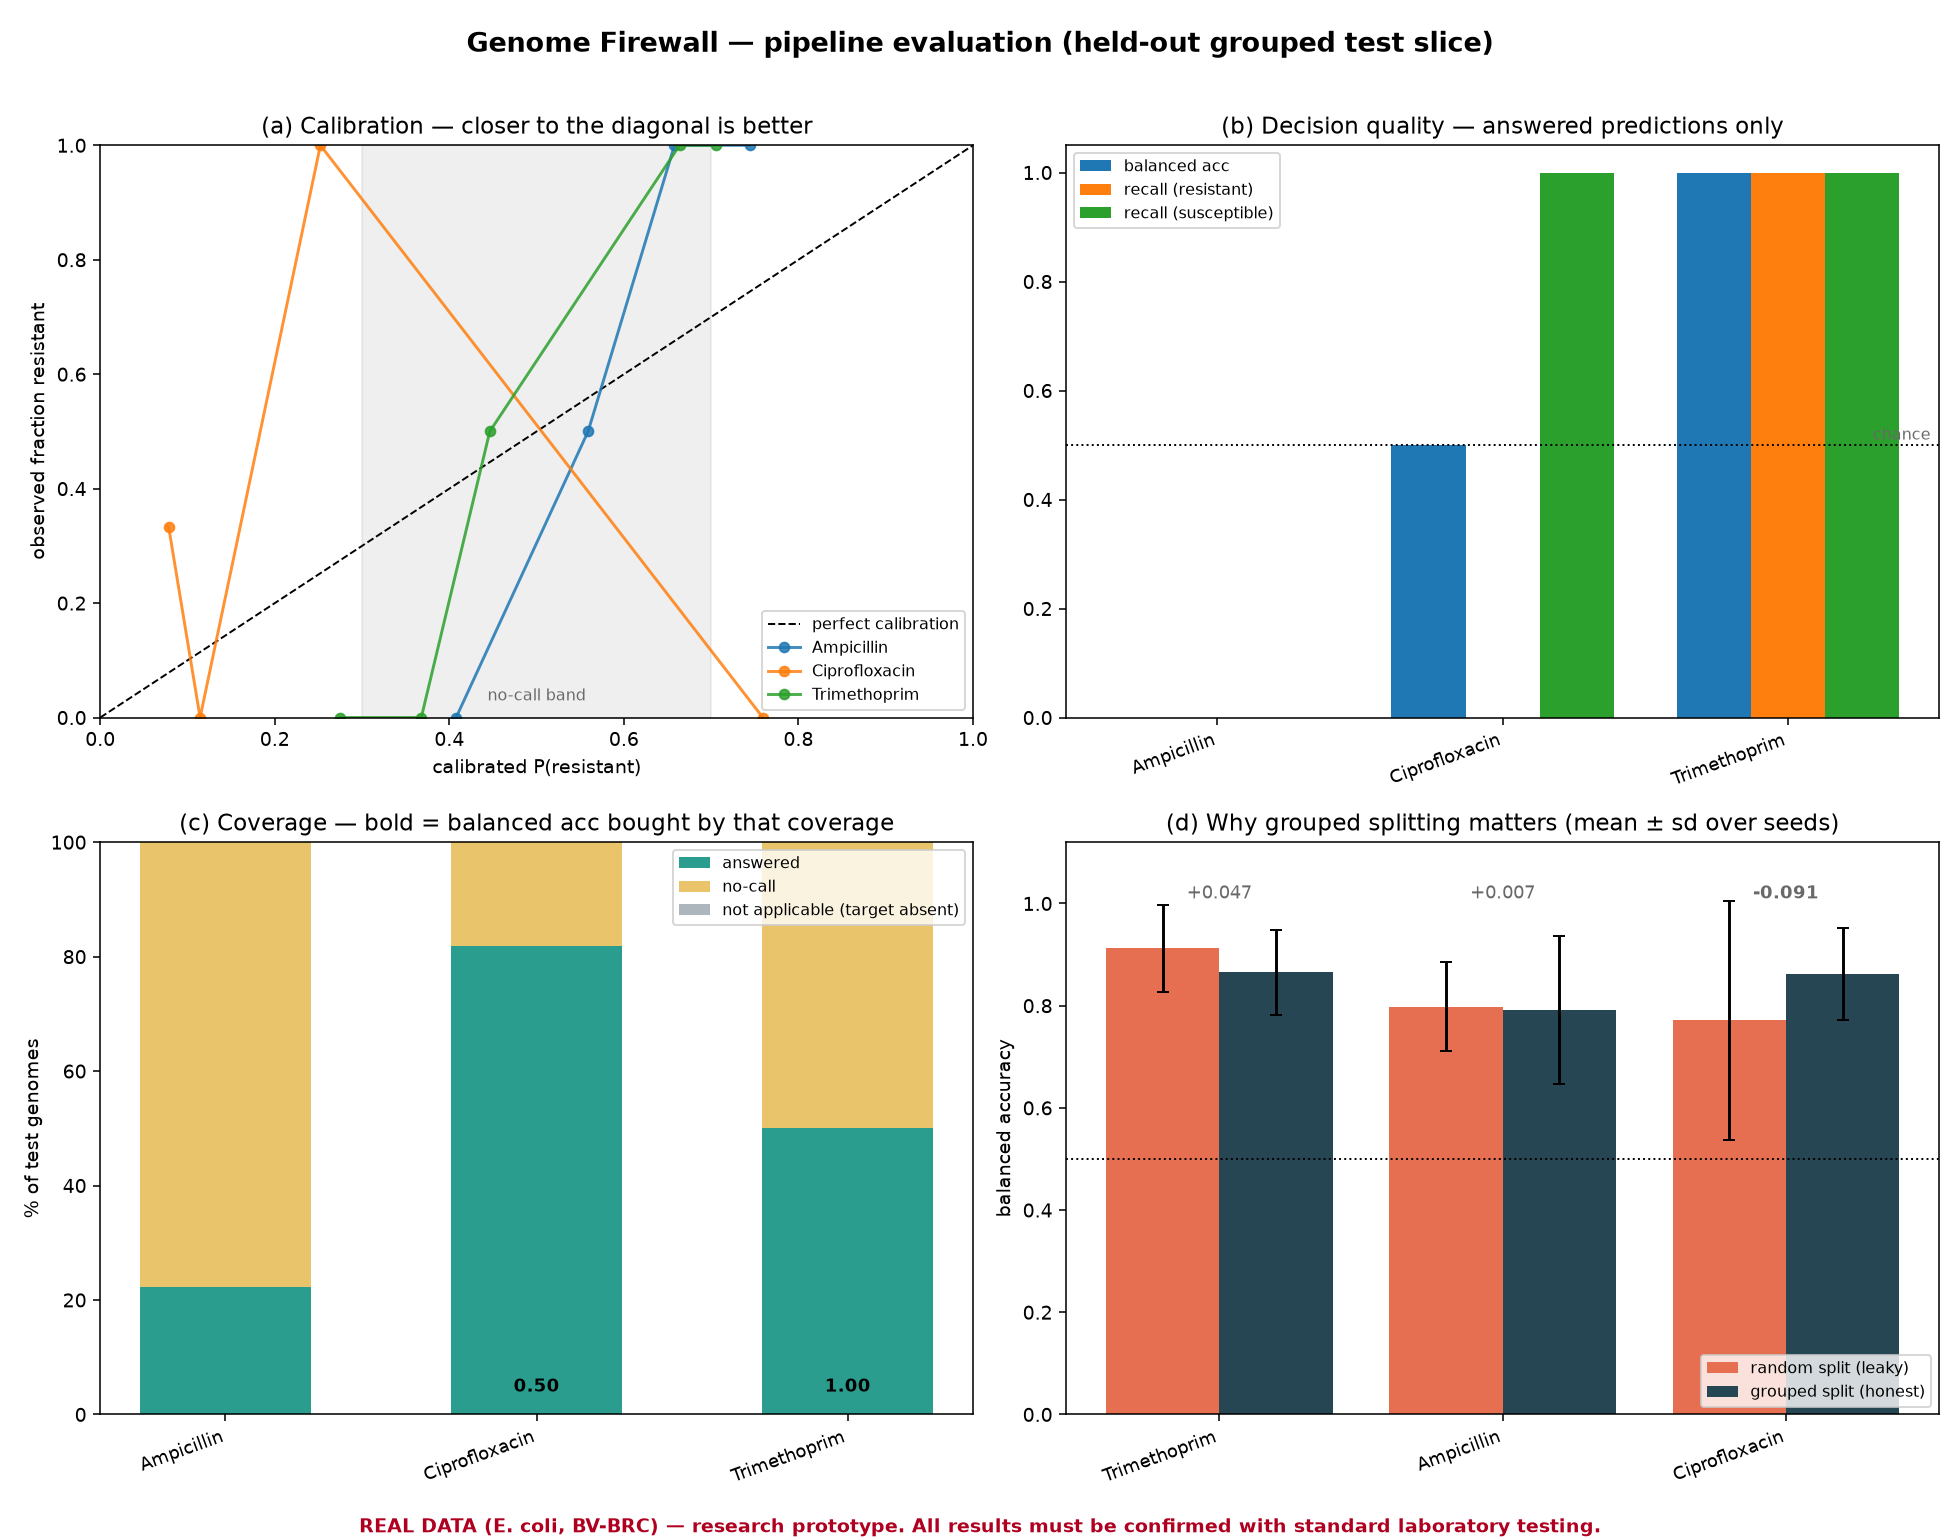
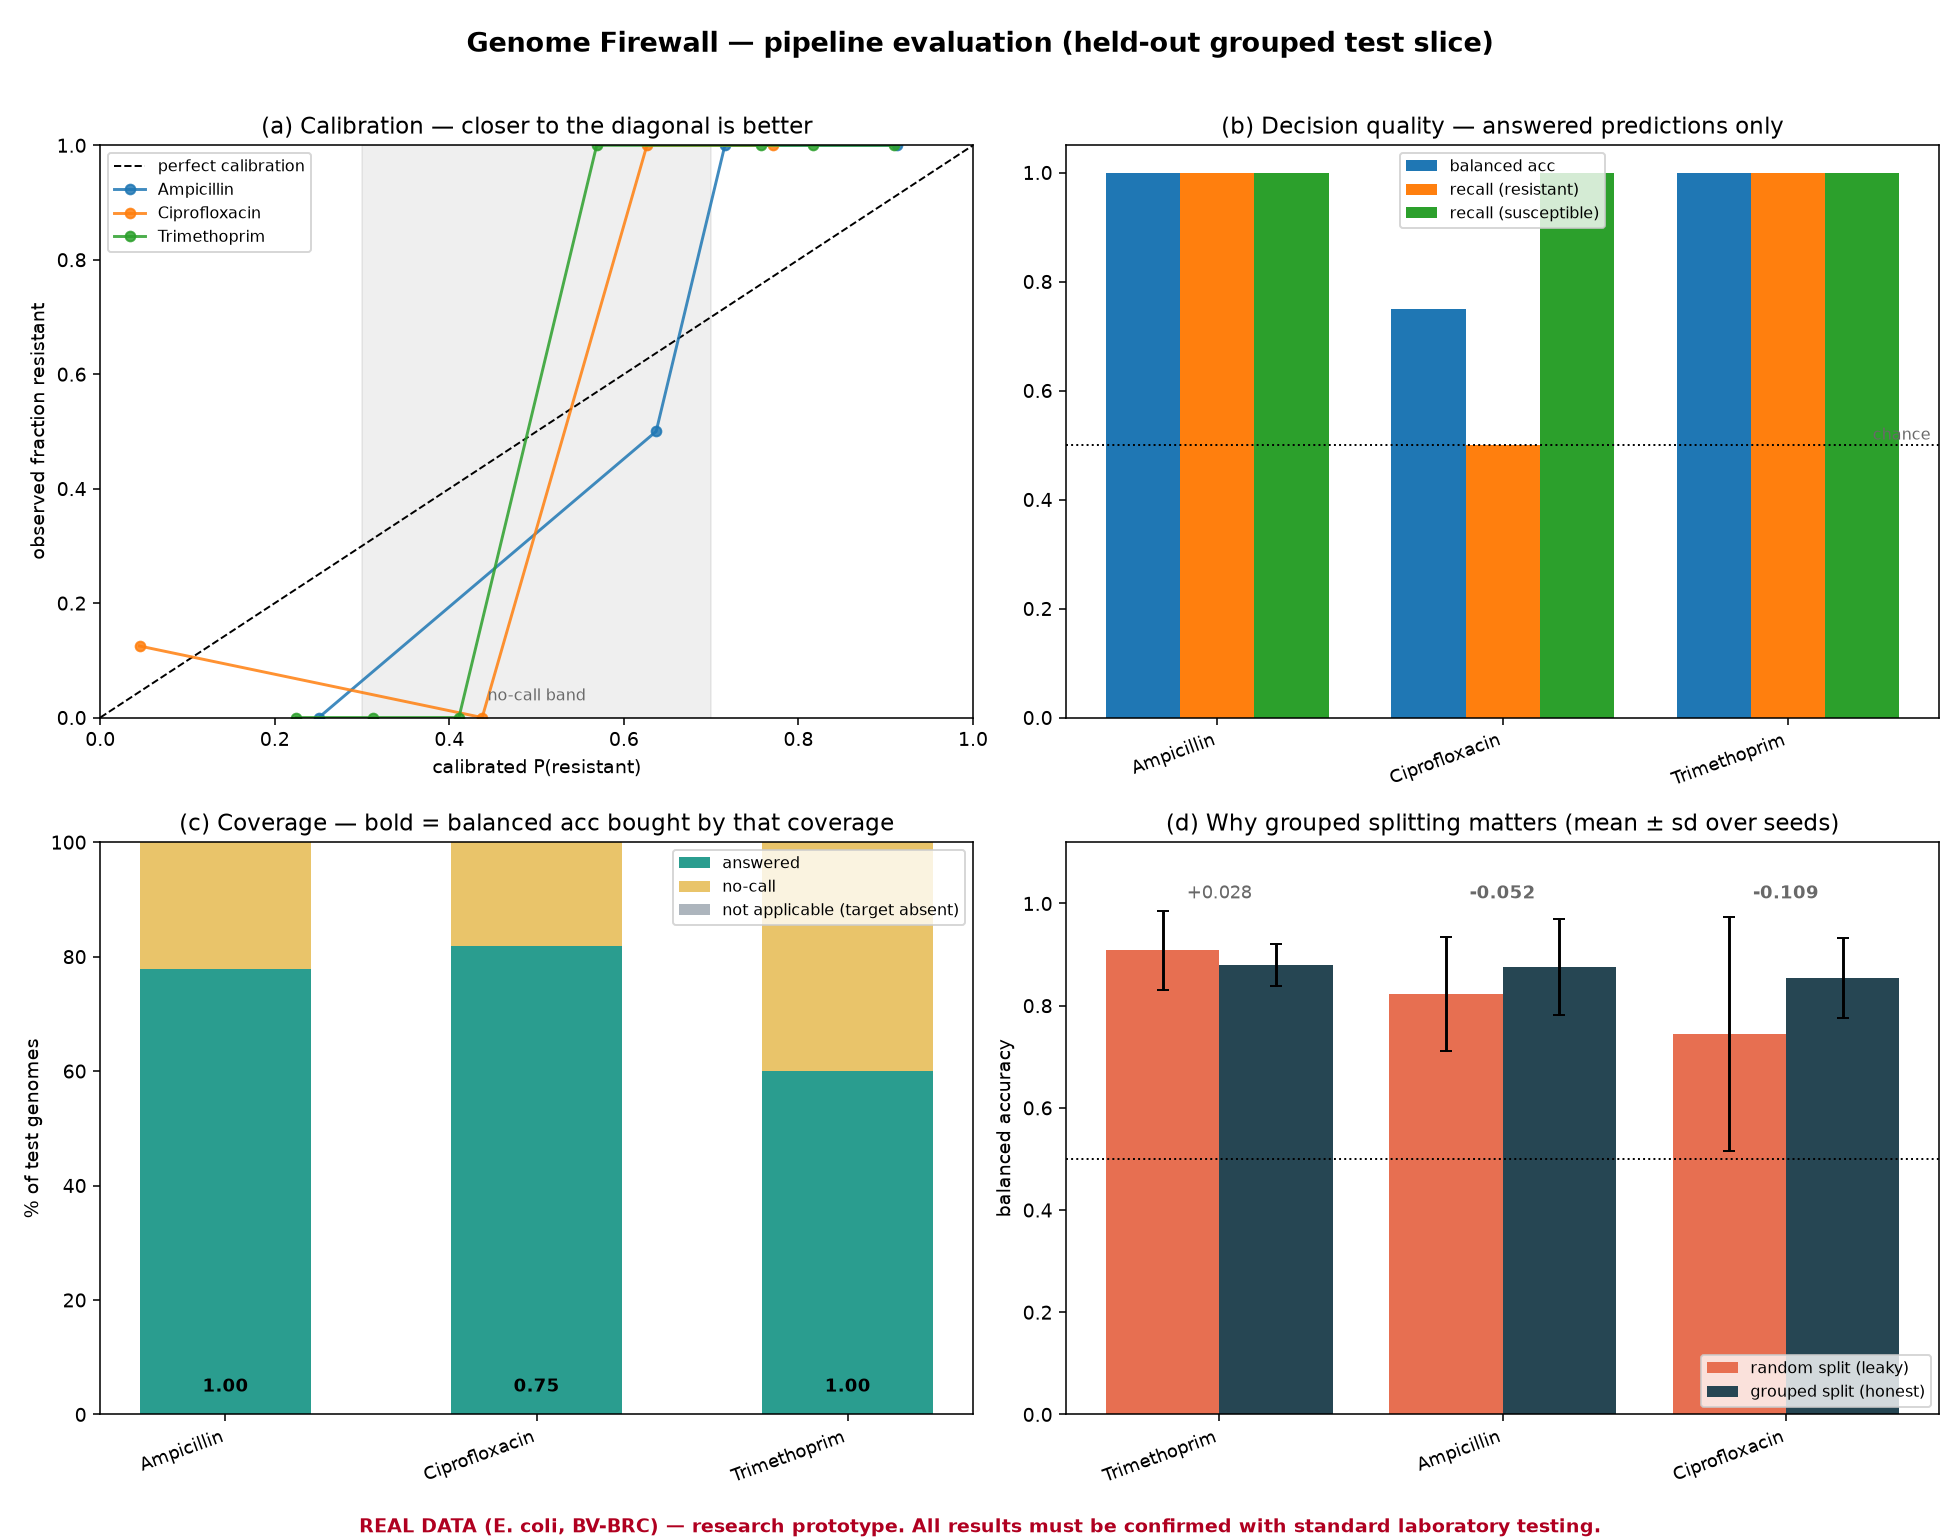
Add curated resistance genese and other

diff --git a/src/predictor.py b/src/predictor.py
@@ -157,6 +157,9 @@ class DrugModel:
     #: `feature_names` then holds FAMILY names, and any raw genome row must be
     #: aggregated through this mapping before it can be scored.
     family_map: dict[str, str] | None = None
+    #: Curated genes summed into the CURATED_COUNT column, when the model was
+    #: fitted with it. Needed to rebuild that column for a single genome.
+    counted_genes: list[str] = field(default_factory=list)
 
     def probability_resistant(self, row: pd.Series) -> float:
         """P(resistant) for one genome. Uncalibrated."""
@@ -165,7 +168,14 @@ class DrugModel:
                 dtype=float
             )
         else:
-            x = row.reindex(self.feature_names).fillna(0).to_numpy(dtype=float)
+            values = row.reindex(self.feature_names).fillna(0)
+            if self.counted_genes:
+                # Rebuild the summary column from this genome's own alleles; it is
+                # not present on a raw feature row.
+                values[CURATED_COUNT] = float(
+                    sum(row.get(gene, 0) for gene in self.counted_genes)
+                )
+            x = values.to_numpy(dtype=float)
         return float(self.estimator.predict_proba(x.reshape(1, -1))[0, 1])
 
     def positive_drivers(self, row: pd.Series) -> list[str]:
@@ -255,6 +265,53 @@ def gene_family(feature_name: str) -> str:
     return _ALLELE_SUFFIX.sub("", feature_name) or feature_name
 
 
+#: Name of the synthetic count column. Leading underscore so it cannot collide
+#: with an AMRFinderPlus element symbol, and so it is easy to filter out of
+#: anything user-facing — it is a model input, never evidence.
+CURATED_COUNT = "_curated_count"
+
+
+def curated_count_column(X: pd.DataFrame, drug: str) -> pd.Series | None:
+    """
+    How many of this drug's curated resistance genes are present, per genome.
+
+    Returns None when the drug has no curated genes, so the caller can skip the
+    column entirely rather than adding a constant zero.
+
+    Why this exists: resistance here is carried by many rare alleles — 25 curated
+    ampicillin genes, mostly one or two genomes each. Spread across 124 columns
+    and fitted on 25-33 rows, each gets a coefficient too small to matter, which
+    is what compresses the probabilities. Summing them restores a single dense
+    signal WITHOUT discarding the individual columns, which is where gene-family
+    aggregation went wrong: that merged alleles and lost the resolution, this
+    adds a summary and keeps it.
+
+    The count is a deterministic function of feature columns and
+    drug_database.KNOWN_RESISTANCE_GENES. No label, row, or split membership is
+    consulted, so computing it over the whole matrix leaks nothing. The curated
+    lists themselves were derived from AMRFinderPlus amr_class/amr_subclass
+    annotations, never from phenotypes.
+
+    Measured on the real data, and it recovers textbook AMR biology:
+
+        drug            0 curated genes    threshold for resistance
+        Ampicillin      0R / 17S           >=1 gene -> 23R / 1S
+        Trimethoprim    3R / 31S           >=1 gene -> 17R / 0S
+        Ciprofloxacin   1R / 29S           >=3 genes -> 10R / 0S
+
+    Ampicillin and trimethoprim are near-perfect single-gene rules — any
+    beta-lactamase hydrolyses ampicillin, any acquired dfrA defeats
+    trimethoprim. Ciprofloxacin needing SEVERAL is the known stepwise
+    fluoroquinolone mechanism: one QRDR mutation gives reduced susceptibility,
+    clinical resistance takes more. The model is not being told this; it falls
+    out of counting curated genes.
+    """
+    curated = [g for g in _known_resistance_genes(drug) if g in X.columns]
+    if not curated:
+        return None
+    return X[curated].sum(axis=1)
+
+
 def aggregate_to_families(X: pd.DataFrame) -> tuple[pd.DataFrame, dict[str, str]]:
     """
     Collapse a genome x allele matrix to genome x family, presence-wise.
@@ -318,9 +375,19 @@ def fit_drug_model(
     C: float = DEFAULT_C,
     weight_by_cluster: bool = True,
     aggregate_families: bool = False,
+    curated_count: bool = True,
 ) -> DrugModel:
     """Fit one antibiotic's model on the given training row positions."""
     X, y, _ = dataset.xy_for_drug(drug)
+
+    # One dense summary of the drug's curated resistance genes, alongside — not
+    # instead of — the individual allele columns. See curated_count_column().
+    counted_genes: list[str] = []
+    if curated_count and not aggregate_families:
+        counts = curated_count_column(X, drug)
+        if counts is not None:
+            counted_genes = [g for g in _known_resistance_genes(drug) if g in X.columns]
+            X = X.assign(**{CURATED_COUNT: counts})
 
     # Collapse allelic variants into gene families before fitting — see
     # gene_family(). The mapping is a pure function of the column name, so doing
@@ -373,10 +440,14 @@ def fit_drug_model(
         feature_names=list(X.columns),
         target_genes=dataset.target_genes(drug),
         known_genes=_known_resistance_genes(drug),
-        evidence_exclusions=frozenset(all_targets),
+        # CURATED_COUNT is a model input, never evidence — "_curated_count
+        # detected" is meaningless to a clinician, and the genes behind it are
+        # already reported individually.
+        evidence_exclusions=frozenset(all_targets | {CURATED_COUNT}),
         n_train=len(train_rows),
         n_train_clusters=len(set(groups[train_rows])),
         family_map=family_map,
+        counted_genes=counted_genes,
     )
 
 

diff --git a/CLAUDE.md b/CLAUDE.md
@@ -117,8 +117,10 @@ files in `data/processed/`: **119 E. coli genomes x 124 AMR features, 143 label 
 (Ampicillin 41, Ciprofloxacin 51, Trimethoprim 51). Run `python src/adapt_real_data.py`, then
 evaluate with `run_full_evaluation(Path("data/processed"), Path("reports_real"))`.
 
-The dataset is small enough that this is a working pipeline, not a competitive model — see
-"What the real numbers actually say" below before quoting anything.
+The dataset is small enough that the confidence intervals, not the means, are the honest story —
+see "What the real numbers actually say" below before quoting anything. As of 2026-07-19 the real
+numbers are considerably stronger than they were earlier the same day, because of the curated-count
+feature in `predictor.py`; that section and the "Decisions made" entry explain what changed.
 
 Built and running: `schemas.py` (shared Prediction contract), `data_io.py` (contract loader +
 validation, against `docs/DATA_CONTRACT.md`), `splits.py` (MinHash/Mash clustering, grouped
@@ -135,8 +137,11 @@ LLM constraints, disclaimer — run `python verify_patch.py`).
 `genome_reader.py` and `drug_database.py` are implemented (Moncef, plus fixes below).
 `genome_reader.py` now has a CLI — `python src/genome_reader.py --fasta-dir <dir> --out-dir <dir>`
 — that annotates concurrently, caches each TSV so a failed batch resumes, and emits both
-`features.csv` and `gene_metadata.csv`. **`app.py` is still a one-line stub (UI owner)** and
-`models/` is still empty.
+`features.csv` and `gene_metadata.csv`. **`app.py` is still the only real stub** — a docstring and a
+`TODO(UI owner)`, no upload screen, no results dashboard, no call into `explainer.py`. **`models/`
+is still empty and nothing in `src/` serializes a model**; see "Known gaps to fix".
+
+Test suite: 101 tests, all passing (`python -m pytest tests/ -q`).
 
 Labels live in `data/` (E. coli taxon 562). `labels_sampled.csv` is the working set: 2,400 rows,
 columns `genome_id,genome_name,antibiotic,phenotype,lab_method` — filter on `lab_method` to keep
@@ -164,13 +169,20 @@ seeds. Regenerate with `python src/evaluation.py`.
 | drug | random | grouped | gap |
 |---|---|---|---|
 | Meropenem | 0.770 ±0.066 | 0.676 ±0.039 | **+0.094** |
-| Ciprofloxacin | 0.902 ±0.030 | 0.842 ±0.049 | **+0.060** |
 | Gentamicin | 0.946 ±0.025 | 0.887 ±0.035 | **+0.059** |
 | Ceftriaxone | 0.934 ±0.028 | 0.911 ±0.014 | +0.023 |
+| Ciprofloxacin | 0.933 ±0.021 | 0.919 ±0.037 | +0.014 |
 
 The gap is the pitch, but state it honestly: it is modest, and it is largest on the drug we predict
 worst (Meropenem, grouped balanced accuracy 0.676 — barely above useful). Report the grouped
 numbers as the real ones.
+
+**Ciprofloxacin's row was re-measured on 2026-07-19 after the curated-count feature landed** (was
+0.902 / 0.842 / +0.060). Only Ciprofloxacin moved, and only because it is the ONE synthetic drug
+that has curated genes in `drug_database.KNOWN_RESISTANCE_GENES` — the other three synthetic drugs
+get no count column, so their rows are byte-identical. The count mostly helped the grouped model
+(0.842 → 0.919), which shrank the gap. Do not read that as leakage getting worse; it is the
+grouped model getting better.
 
 **This table was re-measured on 2026-07-19 after per-cluster sample weights landed (`5bc80ae`),
 and it replaces the previous version** (Meropenem +0.132, Gentamicin +0.109, Ciprofloxacin 0.000,
@@ -202,31 +214,40 @@ decision metrics are undefined otherwise and are reported as NaN rather than a f
 
 | drug | coverage | bal_acc | scoreable | recall_R | AUROC | brier raw → cal |
 |---|---|---|---|---|---|---|
-| Ampicillin | 25.0 ±17.4 | 0.500 ±0.000 | **1 of 8** | 1.000 | 0.894 ±0.104 | 0.194 → 0.171 |
-| Ciprofloxacin | 80.7 ±8.4 | 0.821 ±0.175 | 7 of 8 | 0.643 ±0.350 | 0.859 ±0.144 | 0.183 → 0.108 |
-| Trimethoprim | 42.5 ±22.2 | 0.700 ±0.245 | 5 of 8 | 0.400 ±0.490 | 0.940 ±0.062 | 0.193 → 0.142 |
+| Ampicillin | 55.6 ±22.9 | 1.000 ±0.000 | 7 of 8 | 1.000 ±0.000 | 1.000 ±0.000 | 0.152 → 0.090 |
+| Ciprofloxacin | 92.0 ±7.1 | 0.896 ±0.108 | 8 of 8 | 0.792 ±0.216 | 0.865 ±0.138 | 0.151 → 0.066 |
+| Trimethoprim | 73.8 ±13.2 | 0.911 ±0.094 | 8 of 8 | 0.823 ±0.188 | 0.961 ±0.054 | 0.176 → 0.095 |
+
+**This table replaces a much weaker one, measured before the curated-count feature landed**
+(Ampicillin coverage 25.0 / bal_acc 0.500 / scoreable 1 of 8; Ciprofloxacin 80.7 / 0.821 / 7 of 8;
+Trimethoprim 42.5 / 0.700 / 5 of 8). Same data, same splits, same seeds — the only change is the
+`_curated_count` column. See "Decisions made" below. The old table's central complaint, that
+Ampicillin was degenerate and never answered a susceptible genome, is **fixed**: it now answers
+55.6% of test rows and both classes appear in 7 of 8 seeds.
 
 How to read this honestly:
 
-- **The models are real.** AUROC 0.86–0.94 means the biology is being learned. Calibration now
-  improves Brier on all three drugs.
-- **The decisions are weak and seed-dependent.** Test slices are 9–11 genomes, so those standard
-  deviations are the story, not the means. Never quote a single split.
-- **Ampicillin is degenerate.** It only ever answers genomes that are truly resistant — measured
-  over 8 seeds, ZERO test rows ever landed below the 0.30 no-call floor (p5 of its calibrated
-  distribution is 0.368). So its answered slice is single-class almost always, `recall_S` is 0 by
-  construction, and `bal_acc` 0.500 is the honest reading. When it does answer resistant it is
-  right 23 of 24 times. The fix is more data, not a wider band.
-- **`recall_R` is the weak side everywhere.** The models miss resistant cases far more often than
-  they misclassify susceptible ones. In this domain that is the dangerous direction.
+- **The models are real, and now the decisions are too.** AUROC 0.865–1.000, and all three drugs are
+  scoreable in nearly every seed instead of one or five.
+- **Ampicillin's 1.000s are a 9-genome test slice, not a solved problem.** Perfect scores on ~5
+  answered rows per seed are what a near-perfect single-gene rule looks like at this sample size,
+  not evidence of a perfect model. Quote it with the denominator attached, every time.
+- **Still seed-dependent.** Test slices are 9–11 genomes. The standard deviations remain the story
+  — Ciprofloxacin's `recall_R` is 0.792 ±0.216. Never quote a single split.
+- **`recall_R` is still the weak side**, though much less so (0.400 → 0.823 on Trimethoprim,
+  0.643 → 0.792 on Ciprofloxacin). The models still miss resistant cases more often than they
+  misclassify susceptible ones, which in this domain is the dangerous direction.
+- **Calibration improves Brier on all three drugs**, and by more than before (Ciprofloxacin
+  0.151 → 0.066).
 
-**The leakage gap does NOT reproduce on real data.** Measured mean gap is ≈ −0.01 with enormous
-spread (±0.234 on Ciprofloxacin random). That is not a failure — it follows from the clustering:
-only ONE genome pair sits below Mash 0.002, so this sample has almost no clonal redundancy and a
-grouped split is nearly a random split. A collection built from outbreak isolates would behave
-completely differently. Say this out loud rather than hiding it; "we measured our own headline
-claim and it didn't hold here, and here is why" is a stronger position than a number that breaks
-under questioning.
+**The leakage gap does NOT reproduce on real data**, and the curated-count change did not rescue
+it — measured gaps are now Trimethoprim +0.028, Ampicillin −0.052, Ciprofloxacin −0.109, i.e. two
+of three drugs score *better* on a grouped split than a random one, with huge spread (±0.229 on
+Ciprofloxacin random). That is not a failure — it follows from the clustering: only ONE genome pair
+sits below Mash 0.002, so this sample has almost no clonal redundancy and a grouped split is nearly
+a random split. A collection built from outbreak isolates would behave completely differently. Say
+this out loud rather than hiding it; "we measured our own headline claim and it didn't hold here,
+and here is why" is a stronger position than a number that breaks under questioning.
 
 ### Decisions made (don't silently reverse)
 
@@ -255,6 +276,28 @@ under questioning.
   does not raise on single-class `y_true` — it silently degrades to plain accuracy. That reported
   ampicillin at 0.917 alongside `recall_R` 1.000 and `recall_S` 0.000, three numbers that cannot
   all be true. Guarded by `evaluation._decision_metrics_defined()`.
+- **The curated-count feature is ON** (`fit_drug_model(curated_count=True)`, default). One extra
+  column, `predictor.CURATED_COUNT` = `"_curated_count"`, holding how many of that drug's
+  `KNOWN_RESISTANCE_GENES` the genome carries — added *alongside* the individual allele columns,
+  never replacing them. Why: resistance here is carried by many rare alleles (25 curated ampicillin
+  genes, mostly one or two genomes each). Spread over 124 columns and fitted on 25–33 rows, each
+  coefficient is too small to matter, which is what compressed the probabilities into the no-call
+  band. This is the change that took Ampicillin from "answers 25% of rows, all resistant" to
+  "answers 56%, both classes, scoreable in 7 of 8 seeds" — full before/after in the real-numbers
+  table above. It is the opposite trade to gene-family aggregation below: that one merges alleles
+  and *loses* resolution, this one adds a summary and *keeps* it.
+  - **It leaks nothing.** The count is a deterministic function of feature columns and the curated
+    gene lists. No label, no row identity, no split membership is consulted, so computing it over
+    the whole matrix before splitting is safe — same argument as the family map.
+  - **It is a model input, never evidence.** `CURATED_COUNT` is in `evidence_exclusions`;
+    "`_curated_count` detected" means nothing to a clinician and the genes behind it are already
+    reported individually. Do not surface it in the UI.
+  - It is skipped when `aggregate_families=True` (the two are alternative treatments of the same
+    problem) and when the drug has no curated genes, in which case the column is omitted rather
+    than added as a constant zero. This is why only Ciprofloxacin's synthetic row moved.
+  - The counted genes are stored on `DrugModel.counted_genes` so `probability_resistant()` can
+    rebuild the column for a single raw genome row at inference time. A raw feature row does not
+    carry it.
 - **Gene-family aggregation is available but OFF** (`fit_drug_model(aggregate_families=False)`).
   Collapsing allelic variants (`blaTEM-1/-12/-30` → `blaTEM`) is biologically sound and widens
   probability spread, but measured end-to-end it helps Trimethoprim on every metric and hurts the
@@ -273,16 +316,39 @@ under questioning.
 
 ### Known gaps to fix
 
-- **THE binding constraint: 143 label rows.** Everything weak about the model is downstream of
-  this. Only 119 of the 2,154 genome ids have FASTAs, giving 25–33 training rows and 7–8
-  calibration rows per drug. Nothing in the modelling layer substitutes for more genomes — fetch
-  the rest from BV-BRC and run the `genome_reader.py` CLI. Estimated cost at 2,154 genomes: ~11 GB
-  download, and note `splits.py`'s pure-Python MinHash took 19 minutes for 119 genomes (≈5.7 hours
-  extrapolated), so scaling also means swapping it for the real `mash`/`sourmash` binary.
+- **THE binding constraint: 143 label rows.** Only 119 of the 2,154 genome ids have FASTAs, giving
+  25–33 training rows and 7–8 calibration rows per drug, and 9–11 test rows. Every standard
+  deviation in the real-numbers table is downstream of this. Fetch the rest from BV-BRC and run the
+  `genome_reader.py` CLI. Estimated cost at 2,154 genomes: ~11 GB download, and note `splits.py`'s
+  pure-Python MinHash took 19 minutes for 119 genomes (≈5.7 hours extrapolated), so scaling also
+  means swapping it for the real `mash`/`sourmash` binary.
+  **Amended 2026-07-19:** this used to read "nothing in the modelling layer substitutes for more
+  genomes." The curated-count feature substantially disproved that — it roughly doubled coverage and
+  made all three drugs scoreable without a single new genome. Sample size is still what caps the
+  *confidence intervals*, and no feature engineering will shrink a 9-row test slice, but do not use
+  "we need more data" to wave away modelling questions.
+- **Nothing is persisted — `models/` holds only `.gitkeep`.** There is no `joblib`/`pickle` code
+  anywhere in `src/`; every model is fitted in-memory inside an evaluation run and discarded. This
+  blocks `app.py`: a UI either retrains per request (seconds, on this data size — tolerable for a
+  demo) or someone adds save/load first. Decide which before building the frontend, and note a
+  saved model must also persist `counted_genes` and `family_map` or `probability_resistant()` will
+  score raw genome rows wrongly.
 - ~~No de-duplication.~~ **Done.** `cluster_sample_weights()` weights each genome by 1/(cluster
   size) and equalises class weight on top, so every cluster counts once regardless of how often it
   was sequenced. Note this already applies class balancing — do NOT add `class_weight="balanced"`
   on top, it would be applied twice.
+- **Three open biosecurity gaps, reported by `verify_patch.py` itself** (13 PASS / 3 GAP / 0 FAIL —
+  no control is broken, but these three are inert or incomplete). Run it before any demo; it prints
+  them with owners:
+  - `schemas.Prediction` has no `disclaimer` field, so any consumer rendering Predictions directly
+    (`app.py`, a JSON export, evaluation output) emits results with no disclaimer. Only the
+    explainer path is covered. This is squarely non-negotiable rule 5, and `schemas.py` is the
+    shared contract — team agreement, not a unilateral edit.
+  - `explainer.llm_explain()` returns model output unvalidated: no post-hoc check that gene names in
+    the generated text actually appear in `pred.supporting_features`. Prompt rules alone cannot
+    prevent hallucinated biology. Owner: Hazem.
+  - Meropenem has no target genes, so it is never gated (`target_gate_status="unknown"`). Synthetic
+    drug only, so it does not touch the real-data results. Owner: Moncef.
 - **AMRFinderPlus is not installed in this environment** and Docker's daemon is not running. The
   119-genome matrix came from Moncef's machine. Anyone scaling the dataset needs the toolchain
   working locally first — validate on ~5 genomes before committing to a full run.